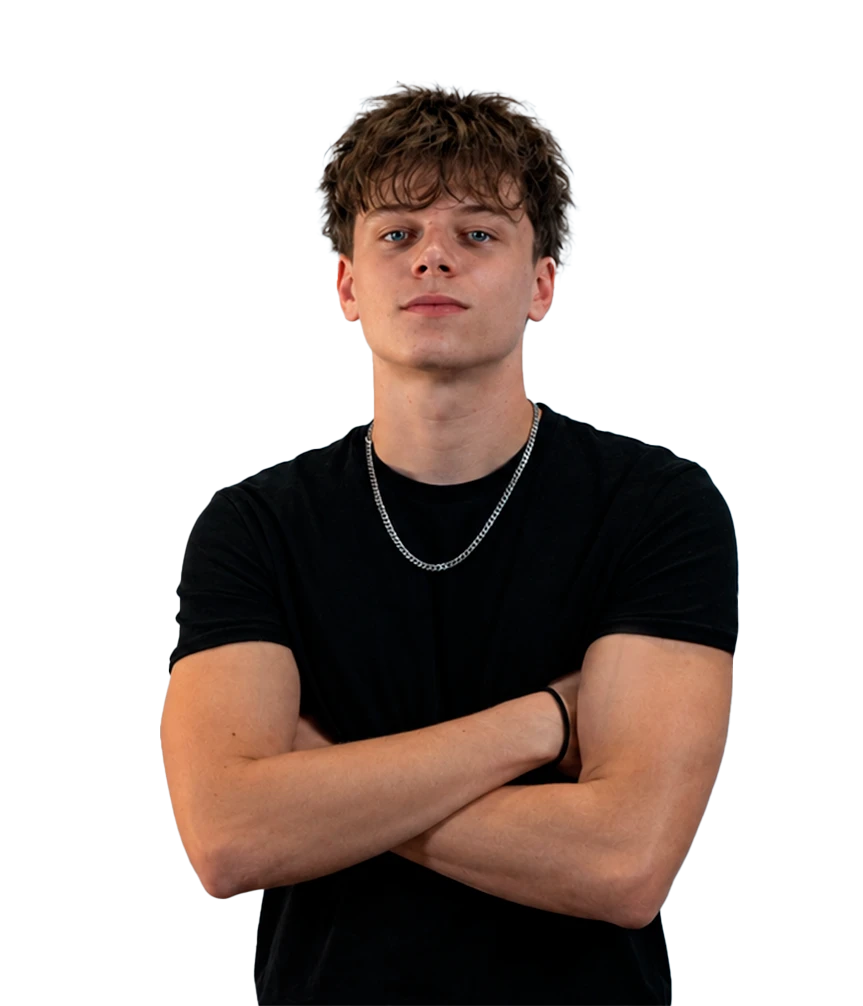
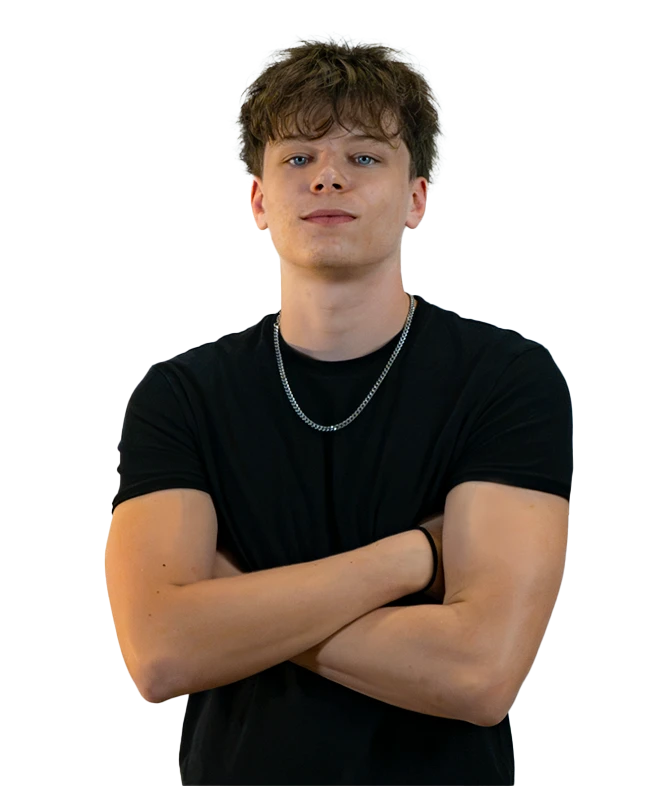
Remplace la photo de portrait par la nouvelle
Meme chemin (assets/leo-portrait.webp) : le hero et apropos.html se
mettent a jour sans autre changement.

Changed region(s): [[0.1499, 0.0305, 0.8696, 1.0], [0.7796, 0.8223, 0.8096, 0.8832], [0.8096, 0.7919, 0.8396, 0.8223]]

diff --git a/CLAUDE.md b/CLAUDE.md
@@ -160,6 +160,9 @@ dynamiquement avec un `?fresh=<timestamp>`.
 
 ## Changelog
 
+- 2026-09-24 — Remplace `assets/leo-portrait.webp` par la nouvelle photo
+  fournie par le client (même chemin, donc hero et `apropos.html` se mettent
+  à jour ; le navigateur peut garder l'ancienne image en cache : Ctrl+Maj+R).
 - 2026-09-24 — `richol.html` : retire la carte "La liberté" (il ne reste que
   "Ce qu'il m'a appris" dans le bloc `.outcome`).
 - 2026-09-23 — Retire le voile sombre derrière "À propos" au survol du
